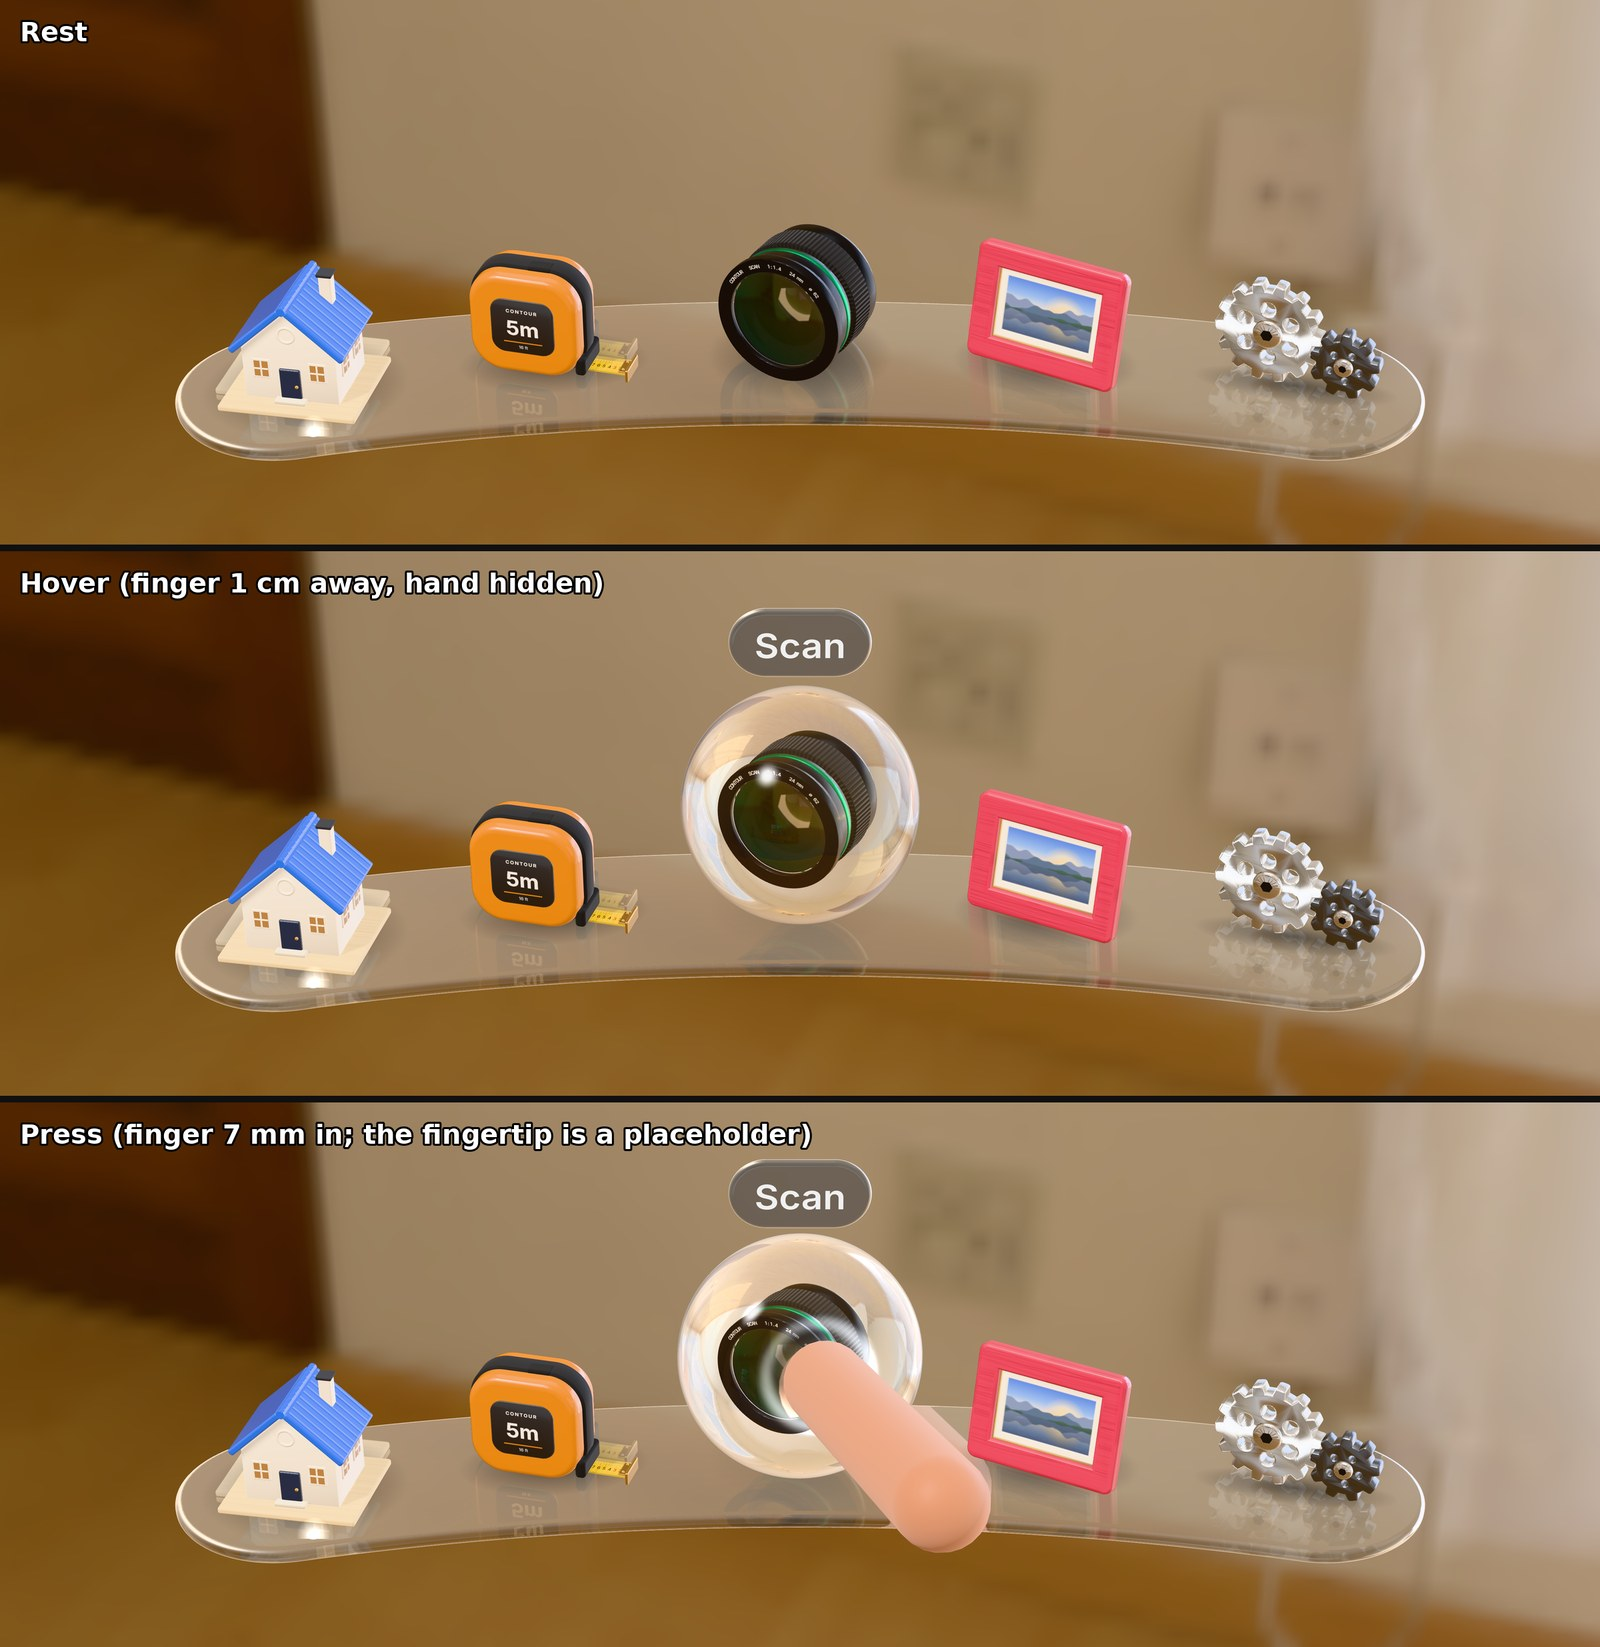
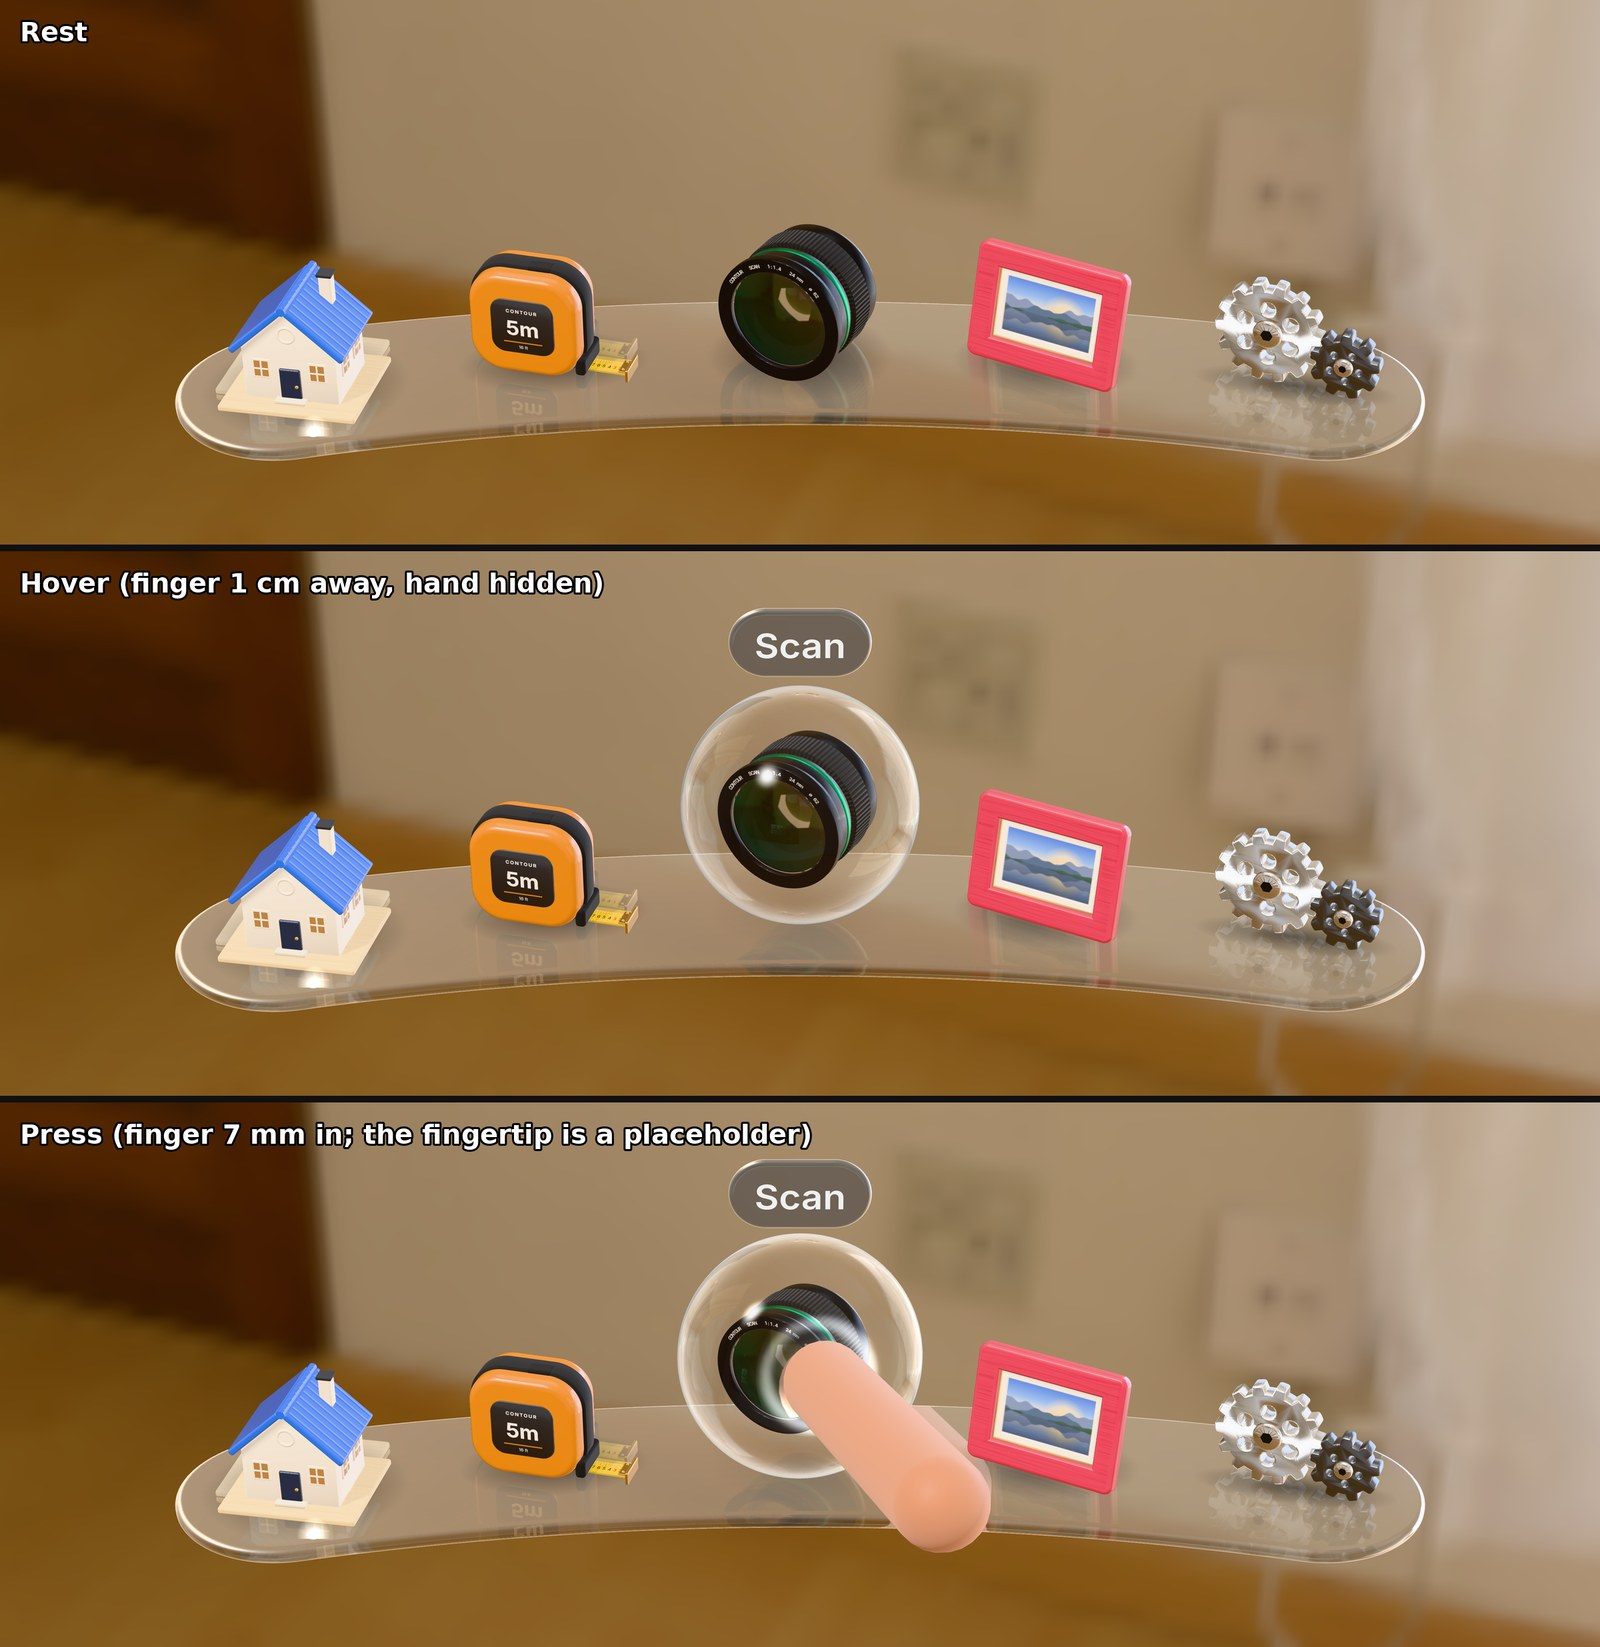
Dock bubble: fix the far wall drawn as a mirror; cooler, lighter skin
The bubble's far wall told itself apart by gl_FrontFacing, but three.js
draws a BackSide mesh with its winding flipped, so its faces report
front-facing: the far wall read every pixel at grazing angle and drew as a
full mirror of the room. The whole disc lightened as much as the rim, which
read heavy beside Jihoon's airy reference. It is now told by its normal.

The skin's reflections keep 30% of the room's colour and take the rest as
the rim's cool white (dockBubble.reflectColour), so a warm room no longer
tints it amber; the rim is a little brighter (0.25 -> 0.4).

Evals: D26's "clear in the middle" region was empty (the object fills the
centre), so it always passed; it now measures the ring round the object
(committed build 0.98x the rim: fail; now 0.18x). New D32: the light the
skin adds is not amber. 34/34 pass.

Claude-Session: https://claude.ai/code/session_01F2z6dGVrWdTUTwYeLec8bi

Changed region(s): [[0.4062, 0.7432, 0.5938, 0.898], [0.4062, 0.4026, 0.5938, 0.5574]]

diff --git a/src/core/bubble.js b/src/core/bubble.js
@@ -58,7 +58,7 @@ const VERT = /* glsl */`
   }`;
 
 const FRAG = /* glsl */`
-  uniform float uOpacity, uF0, uReflBlur, uEnvIntensity, uHasEnv, uKey, uKeySharp, uFar, uRimLight, uRimPower, uReflect;
+  uniform float uOpacity, uF0, uReflBlur, uEnvIntensity, uHasEnv, uKey, uKeySharp, uFar, uRimLight, uRimPower, uReflect, uReflColour;
   uniform float uGlow, uGlowCore, uCoreWidth, uRing, uDentShadow, uDentLight, uDentSlope, uDentWidth, uLipAt, uLipWidth, uDentGlint;
   uniform vec4 uDent;
   uniform vec3 uKeyDir, uGlowColor, uRimColor;
@@ -72,8 +72,12 @@ const FRAG = /* glsl */`
   void main() {
     vec3 V = normalize(vWorld - cameraPosition);
     vec3 N = normalize(vNormal), Nr = normalize(vRadial);
-    // The far wall is seen from inside: its normal faces away.
-    if (!gl_FrontFacing) { N = -N; Nr = -Nr; }
+    // The far wall is seen from inside: its normal faces away. Told by the
+    // normal, not gl_FrontFacing: three.js draws a BackSide mesh with its
+    // winding flipped, so its faces report front-facing, and the far wall
+    // would read every pixel at grazing angle, a full mirror.
+    bool farWall = dot(Nr, V) > 0.0;
+    if (farWall) { N = -N; Nr = -Nr; }
     float cosT = clamp(dot(-V, N), 0.0, 1.0);
     // Two surfaces of a thin skin reflect about twice what one does.
     float F = uF0 + (1.0 - uF0) * pow(1.0 - cosT, 5.0);
@@ -86,6 +90,11 @@ const FRAG = /* glsl */`
     // reflection is compressed (as the window glass's is), so the skin stays
     // clear and the window reads as a soft shape in it.
     refl = refl / (1.0 + dot(refl, vec3(0.2126, 0.7152, 0.0722)));
+    // It keeps only a little of the room's colour (uReflColour): the rest
+    // is the room's light, in the rim's cool white. A warm room otherwise
+    // tints the whole skin amber, and the bubble reads heavy, not light
+    // (Jihoon's reference: a cool, airy sphere).
+    refl = mix(vec3(dot(refl, vec3(0.2126, 0.7152, 0.0722))) * uRimColor, refl, uReflColour);
     vec3 col = refl * R * uReflect;
     // The rim catches light round its whole edge, brighter on top and a
     // little cool, as a soap film does.
@@ -128,7 +137,7 @@ const FRAG = /* glsl */`
     col += glow;
     alpha = max(alpha, clamp(dot(glow, vec3(0.333)), 0.0, 1.0));
     // The far wall reflects less (seen through the near one, at a slant).
-    float k = gl_FrontFacing ? 1.0 : uFar;
+    float k = farWall ? uFar : 1.0;
     // Premultiplied: what is behind is dimmed by what the skin reflects.
     gl_FragColor = vec4(col * k * uOpacity, clamp(alpha * k, 0.0, 1.0) * uOpacity);
     #include <tonemapping_fragment>
@@ -157,6 +166,7 @@ export function makeBubble() {
     uRimLight: { value: B.rim },
     uRimPower: { value: B.rimPower },
     uReflect: { value: B.reflect },
+    uReflColour: { value: B.reflectColour ?? 1 },
     uRimColor: { value: new THREE.Color(...B.rimColor) },
     uFar: { value: B.far },
     uDent: { value: new THREE.Vector4(0, 0, 1, 0) },

diff --git a/src/core/defaults.js b/src/core/defaults.js
@@ -195,7 +195,7 @@ export const DEFAULTS = {
     // this fraction of its size, never from nothing (Emil Kowalski). lift:
     // how far the object rises toward the bubble's middle. The press dent
     // and glow are the list bubble's (emboss), its shadow and glow x these.
-    dockBubble: { size: 1.42, from: 0.9, lift: 1, pressScale: 0.04, f0: 0.03, reflect: 1, reflBlur: 0.05, key: 1.4, keySharp: 600, rim: 0.25, rimPower: 5, rimColor: [0.86, 0.93, 1], far: 0.5, dentDepth: 1.6, squash: 0.06, dentShadow: 0.5, dentLight: 0.8, lipAt: 1, lipWidth: 1.2, dentGlint: 0.8, push: 0.6, pressLight: 3, nameGap: 8, glow: 1, glowCore: 0.4 },
+    dockBubble: { size: 1.42, from: 0.9, lift: 1, pressScale: 0.04, f0: 0.03, reflect: 1, reflectColour: 0.3, reflBlur: 0.05, key: 1.4, keySharp: 600, rim: 0.4, rimPower: 5, rimColor: [0.86, 0.93, 1], far: 0.5, dentDepth: 1.6, squash: 0.06, dentShadow: 0.5, dentLight: 0.8, lipAt: 1, lipWidth: 1.2, dentGlint: 0.8, push: 0.6, pressLight: 3, nameGap: 8, glow: 1, glowCore: 0.4 },
     // Text sits on glass with a faint shadow, so it reads as on the surface.
     textShadow: null, // no halos: text earns contrast from weight and the glass tone (visionOS vibrancy), not a CSS-style shadow
     separator: 0.08, // hairline between rows: white opacity

diff --git a/scripts/match_eval.py b/scripts/match_eval.py
@@ -317,17 +317,29 @@ if have('dock-rest-beauty'):
               '>= 0.85', 'Jihoon: "light bubble layer"; first try read as a milky veil (self-review 2026-10-21)')
         d = max(3, bw(bub) // 16)
         rim = bub & ~erode(bub, d)
-        mid = erode(bub, 3 * d) & ~dilate(hov[2], 3)
+        # Its middle: inside the rim band, round the object (the object
+        # fills the very centre, so an inner disc alone would be empty).
+        mid = erode(bub, d) & ~dilate(hov[2], 3)
         r_add = float((Lh - Ln)[rim].mean())
-        m_add = float(np.abs(Lh - Ln)[mid].mean()) if mid.any() else 0
-        check('D26', 'Dock', 'The bubble shows at its rim and stays clear in the middle', f'rim {r_add:+.3f}, middle {m_add:.3f}',
-              r_add >= 0.04 and m_add <= 0.6 * abs(r_add), 'rim >= +0.04 mean luminance; middle change <= 0.6x the rim\'s',
+        m_add = float(np.abs(Lh - Ln)[mid].mean()) if mid.any() else 1
+        check('D26', 'Dock', 'The bubble shows at its rim and stays clear in the middle', f'rim {r_add:+.3f}, middle {m_add:.3f} ({m_add / max(r_add, 1e-3):.2f}x)',
+              r_add >= 0.04 and m_add <= 0.4 * abs(r_add), 'rim >= +0.04 mean luminance; middle change <= 0.4x the rim\'s',
               'Jihoon\'s reference: a faint sphere whose rim is bright; glass: Fresnel')
         ys = np.nonzero(bub)[0]
         foot = np.nonzero(objs[2])[0].max() if len(objs) == 5 else 0
         rest_on = abs(int(ys.max()) - int(foot)) / bh(bub)
         check('D27', 'Dock', 'The bubble rests on the shelf where the object stood', f'its bottom is {rest_on:.1%} of its height from the object\'s foot', rest_on <= 0.06,
               '<= 6%', 'Jihoon\'s reference: the bubble sits on the shelf')
+        # Light, not amber: the light the skin adds (its reflections and
+        # rim) is near neutral, as the reference's airy sphere, even in a
+        # warm room. Measured as warmth (red minus blue) per unit of the
+        # light it adds, over the skin round the object.
+        skin = bub & ~dilate(hov[2], 3) if len(hov) == 5 else bub
+        dH = Hb - Hn
+        warm = float((dH[..., 0] - dH[..., 2])[skin].mean() / max(float((dH @ np.array([0.2126, 0.7152, 0.0722]))[skin].mean()), 1e-3))
+        check('D32', 'Dock', 'The bubble is light and neutral: the light it adds is not amber', f'{warm:+.2f} warmth per unit of added light',
+              warm <= 0.15, '<= +0.15 (red minus blue, over the light the skin adds)',
+              'Self-review 2026-10-21: in the warm room the bubble read amber and heavy beside the reference\'s cool, light sphere')
         cx = lambda m: float(np.nonzero(m)[1].mean())
         move = max(abs(cx(a_) - cx(b_)) for i, (a_, b_) in enumerate(zip(objs, hov)) if i != 2) if len(objs) == len(hov) == 5 else 99.0
         cols = lambda m: np.where(m.any(axis=0))[0]

diff --git a/docs/components.md b/docs/components.md
@@ -125,7 +125,7 @@ The app launcher, body-locked 25° below your view. Each app is a small real obj
 
 - **Objects.** Each app is an object built in code ([`src/core/objects.js`](../src/core/objects.js)): Planner a house, Measure a tape measure, Scan a camera lens, Photos a picture frame, Settings a pair of gears. Painted plastic, rubber, metal and glass, lit by the room plus three soft boxes and a key light up and to the left that casts shadows (`DEFAULTS.look.dockObjects`). They are **placeholders** for objects an app would ship itself.
 - **Shelf.** A clear glass slab bent on an arc centred on you. Each object has a faint mirror image in it, fading with depth, and a soft contact shadow.
-- **Hover.** A clear bubble 1.42× the object's size forms round it, resting on the shelf, and the object rises to its middle as if picked up; the app's name appears above. The bubble grows from 0.9× its size with a small settle (the list bubble's spring) and goes without one. It is a thin clear skin: it reflects the room faintly face-on and strongly at its rim (Fresnel), with one small key highlight. Only the app nearest the finger shows a bubble, so a finger between two never lights both.
+- **Hover.** A clear bubble 1.42× the object's size forms round it, resting on the shelf, and the object rises to its middle as if picked up; the app's name appears above. The bubble grows from 0.9× its size with a small settle (the list bubble's spring) and goes without one. It is a thin clear skin: it reflects the room faintly face-on and strongly at its rim (Fresnel), with one small key highlight. Its reflections keep only 30% of the room's colour and take the rest as cool white light (`dockBubble.reflectColour`), so a warm room doesn't tint it amber and it stays light, as in the reference. Only the app nearest the finger shows a bubble, so a finger between two never lights both.
 - **Press.** The skin gives way where the finger pushes: the list bubble's dent (`look.emboss.dent`, 1.6× deeper, because the bubble is small and round), with a thin bright lip round the fingertip and the wall turned from the light in shade. The bubble squashes a little against the shelf, the object moves back from the finger and shrinks a touch, and the press glow lights the object from inside the dent. On release the dent springs back past flat once and `select` fires. A ray press (pinch) pushes the dent all the way in.
 
 | Behaviour | Tokens |
@@ -213,7 +213,7 @@ These live in [`src/core/defaults.js`](../src/core/defaults.js), one file, so th
 ### Dock: real objects in a pressable bubble (2026-10-21)
 - **Decision:** Apps are real objects on the glass shelf, not glass globes. Hover forms a clear bubble round the nearest one (1.42× its size, resting on the shelf, the object lifted to its middle); press dents the bubble like the list bubble, squashes it a little, lights the object from the dent and moves the object back from the finger. Values: `DEFAULTS.look.dockBubble`, `DEFAULTS.look.dockObjects`.
 - **Why:** Jihoon's reference (2026-10-21): photoreal objects on a curved glass shelf, the hovered one inside a faint clear sphere about 1.5× its width with a bright rim. One bubble language for Contour: the list's swell and dent, here as a sphere. On a clear sphere seen face-on a dent alone barely shows, so the press also reads by light (glow, lip) and by the object giving way, as a visionOS press recedes.
-- **Alternatives:** Glass globes with glyphs inside (the 2026-10-20 build; read as candy, and not real objects). A press that only squashes the whole bubble (clear, but not the list's dent). Refraction through the bubble (a thick glass ball would distort the object at rest, which the reference doesn't).
+- **Alternatives:** Glass globes with glyphs inside (the 2026-10-20 build; read as candy, and not real objects). Reflections in the room's full colour (physically exact, but in a warm room the bubble read amber and heavy). A press that only squashes the whole bubble (clear, but not the list's dent). Refraction through the bubble (a thick glass ball would distort the object at rest, which the reference doesn't).
 - **Trade-offs:** Apps stand further apart than in the reference (a pitch of about 1.5× an object's width, against its 1.25×), because a magnified bubble needs room to clear its neighbours. Each object is real geometry with shadows, so the Dock costs more to draw than flat icons. ⚠ An app now has to supply an object, not an icon: that is a contract for app makers, harder to undo once apps ship assets.
 
 ### Components take tokens as an argument instead of importing them
